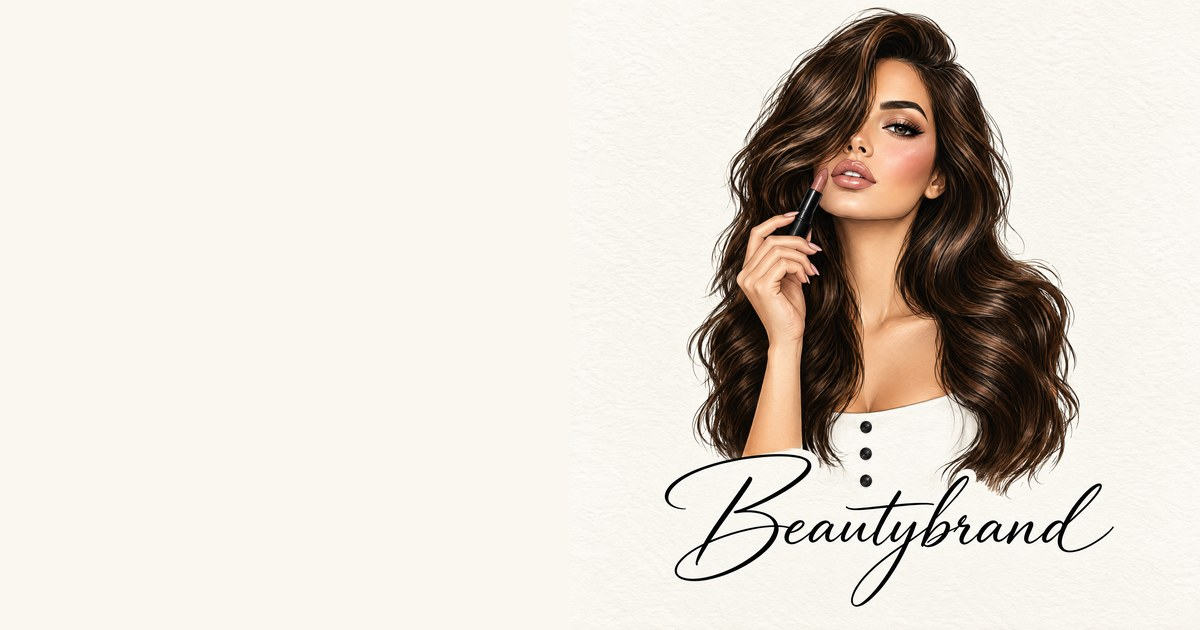
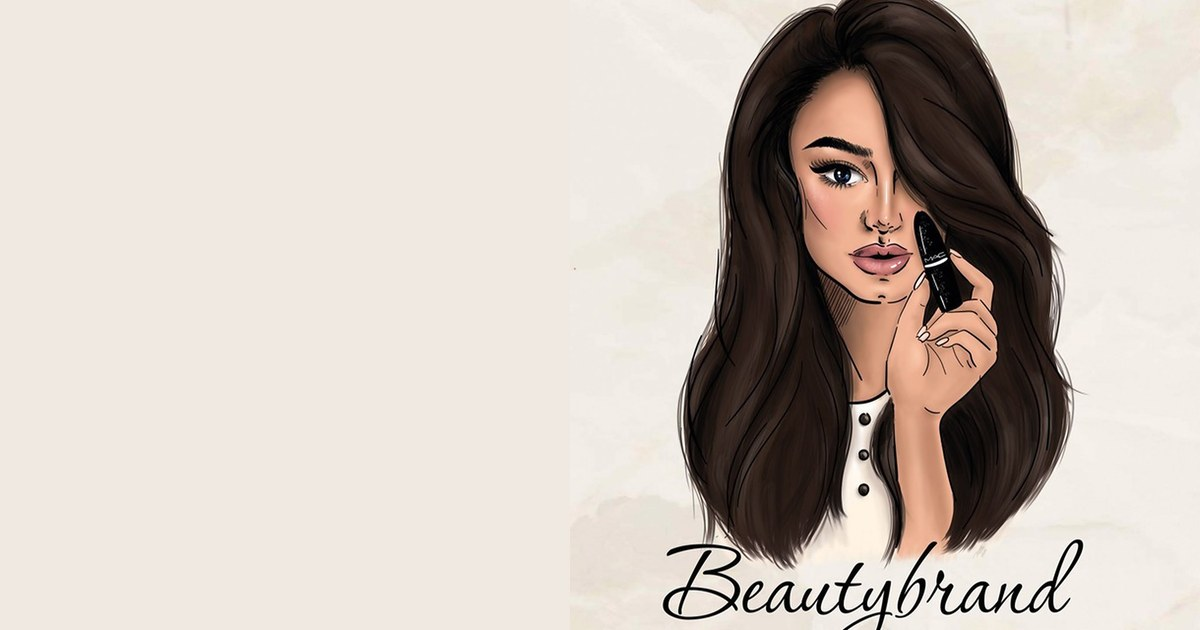
Настоящий логотип с девушкой: апскейл оригинала 640 → 1280, иконки и превью для соцсетей

diff --git a/shop/src/app/[lang]/page.tsx b/shop/src/app/[lang]/page.tsx
@@ -12,7 +12,7 @@ export default async function Home({ params }: PageProps<"/[lang]">) {
 
   return (
     <>
-      <section className="mx-auto grid max-w-6xl items-center gap-2 px-4 pt-4 sm:px-6 md:grid-cols-[1fr_1.05fr] md:gap-10 md:pt-6">
+      <section className="mx-auto grid max-w-6xl items-center gap-7 px-4 pt-4 sm:px-6 md:grid-cols-[1fr_1.05fr] md:gap-10 md:pt-6">
         <div className="order-2 pb-6 md:order-1 md:pb-0">
           <h1 className="max-w-[14ch] font-display text-[2rem] font-medium leading-[1.08] tracking-[-0.02em] sm:text-[2.6rem] lg:text-[3.3rem]">
             {t.hero.title}
@@ -30,13 +30,13 @@ export default async function Home({ params }: PageProps<"/[lang]">) {
         </div>
         <div className="order-1 mx-auto w-full max-w-[26rem] md:order-2 md:max-w-none">
           <Image
-            src="/brand/logo-1200.webp"
+            src="/brand/logo-girl-1200.webp"
             alt="BeautyBrand"
             width={1200}
             height={1200}
             priority
             sizes="(min-width: 768px) 50vw, 90vw"
-            className="h-auto w-full [mask-image:radial-gradient(closest-side,#000_78%,transparent)]"
+            className="h-auto w-full rounded-[2rem] shadow-[0_30px_60px_-30px_rgba(42,26,21,0.35)]"
           />
         </div>
       </section>
